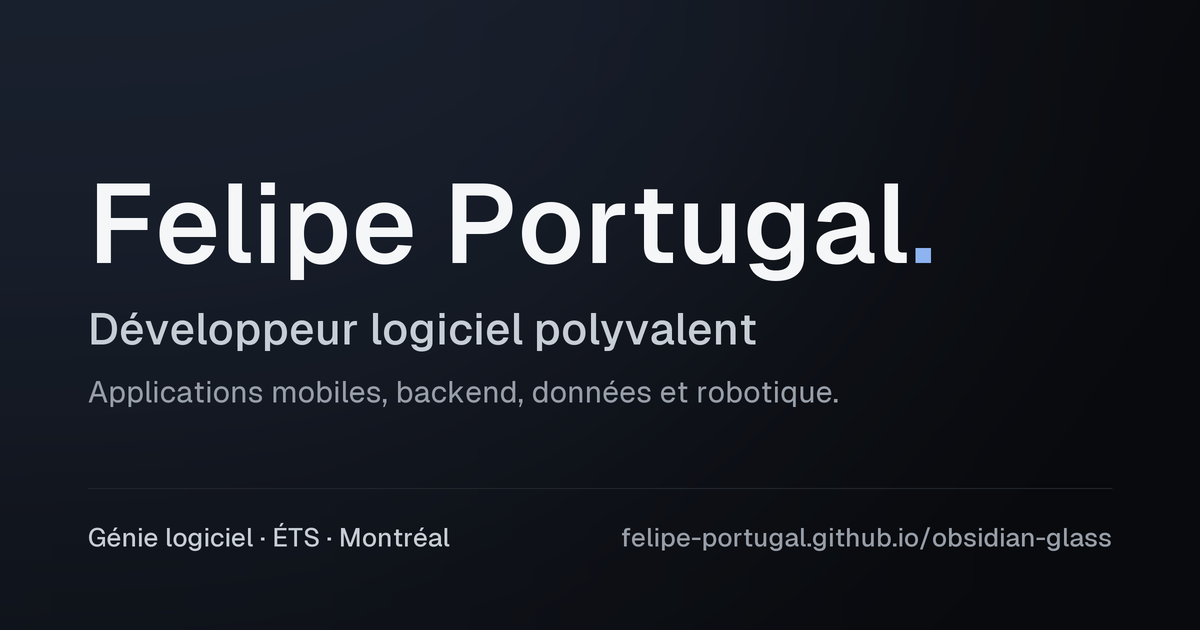
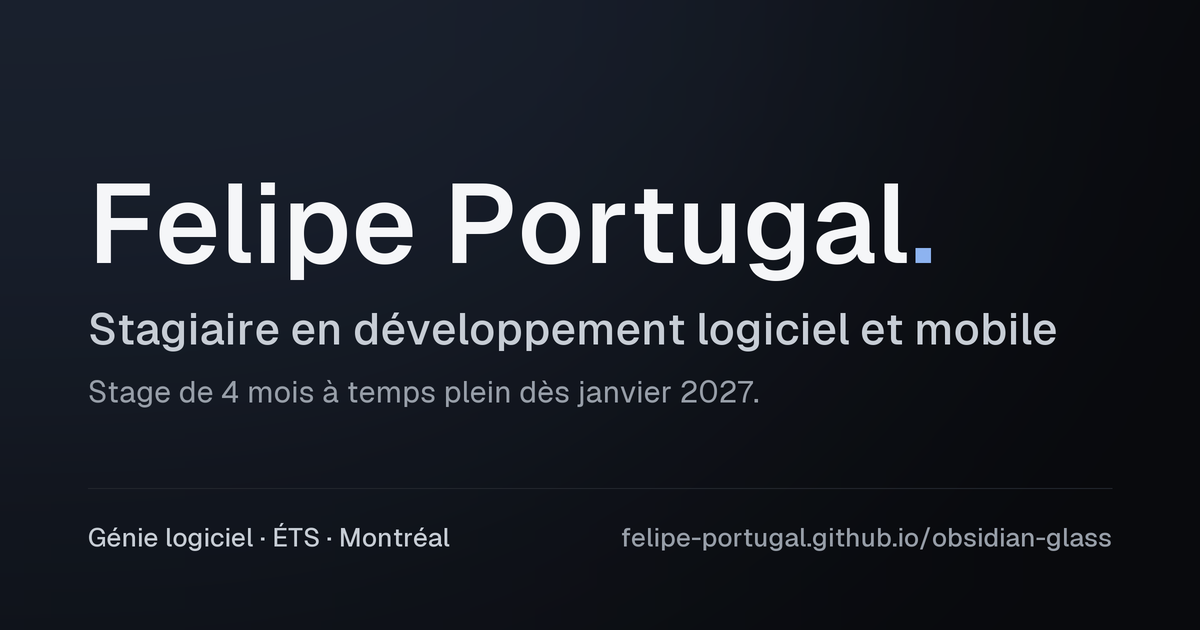
Positionnement en stage logiciel et mobile, résultats livrés, contact simplifié
- Titre, accroche et disponibilité (temps plein dès janvier 2027), image de partage régénérée
- Études de cas : « Ce qui a été livré », sans gain non mesuré
- Contact : un seul bouton « Me contacter », logos LinkedIn et GitHub, icônes seules sur écran étroit
- Synchronisation avec l'adresse via useEffectEvent (avertissement du lint corrigé)

Changed region(s): [[0.0617, 0.4825, 0.8942, 0.573], [0.0617, 0.6032, 0.7092, 0.6635]]

diff --git a/src/i18n/ui.ts b/src/i18n/ui.ts
@@ -5,7 +5,7 @@ import type { Lang } from '../data/types'
 
 const fr = {
   meta: {
-    title: 'Felipe Portugal · Développeur logiciel polyvalent',
+    title: 'Felipe Portugal · Stagiaire en développement logiciel et mobile',
     description:
       'Portfolio de Felipe Portugal, étudiant en génie logiciel à l’ÉTS, à Montréal\u00a0: applications mobiles, backend, données et robotique.',
     locale: 'fr_CA',
@@ -23,19 +23,19 @@ const fr = {
     themes: { auto: 'Thème automatique (système)', light: 'Thème clair', dark: 'Thème sombre' },
   },
   hero: {
-    role: 'Développeur logiciel polyvalent',
-    lede: 'Étudiant en génie logiciel à l’ÉTS et diplômé du DEC en techniques de l’informatique, je suis passionné par les systèmes embarqués et l’implémentation de l’IA. À l’ITMI, j’ai contribué à des applications mobiles, à des services backend et à des outils pour le robot Spot.',
+    role: 'Stagiaire en développement logiciel et mobile',
+    lede: 'Étudiant en génie logiciel à l’ÉTS et diplômé du DEC en techniques de l’informatique. À l’ITMI, j’ai contribué à une application mobile React Native et à son API PHP, puis, pour le robot Spot, à la détection de manomètres avec PyTorch et à leur lecture par OCR. Je veux aller plus loin en systèmes embarqués et en IA appliquée.',
     factsLabel: 'En bref',
     study: 'Étudiant en génie logiciel, ÉTS',
     languages: 'Français, anglais, espagnol',
-    status: 'Recherche un stage de 4\u00a0mois à l’hiver 2027 · ouvert à 8\u00a0mois',
+    status: 'Stage de 4\u00a0mois à temps plein dès janvier 2027 · ouvert à 8\u00a0mois',
     contact: 'Me contacter',
   },
   projects: {
     title: 'Projets',
     hint: 'Chaque étude de cas détaille ma contribution, l’architecture et les limites.',
     contribution: 'Ma contribution',
-    result: 'Ce que le projet a changé',
+    result: 'Ce qui a été livré',
     open: 'Ouvrir l’étude de cas',
     techLabel: 'Technologies principales',
   },
@@ -128,7 +128,7 @@ const fr = {
   contactTile: {
     title: 'Contact',
     lead: 'Pour un stage ou une question, écrivez-moi directement.',
-    write: 'Écrire un message',
+    write: 'Me contacter',
     cv: 'Demander le CV',
     cvOpen: 'Ouvrir le CV',
   },
@@ -191,7 +191,7 @@ export type UiStrings = typeof fr
 
 const en: UiStrings = {
   meta: {
-    title: 'Felipe Portugal · Versatile software developer',
+    title: 'Felipe Portugal · Software and mobile development intern',
     description:
       'Portfolio of Felipe Portugal, software engineering student at ÉTS in Montréal: mobile apps, backend, data and robotics.',
     locale: 'en_CA',
@@ -209,19 +209,19 @@ const en: UiStrings = {
     themes: { auto: 'Automatic theme (system)', light: 'Light theme', dark: 'Dark theme' },
   },
   hero: {
-    role: 'Versatile software developer',
-    lede: 'A software engineering student at ÉTS with a college diploma (DEC) in computer science, I am passionate about embedded systems and implementing AI. At ITMI, I contributed to mobile apps, backend services and tools for the Spot robot.',
+    role: 'Software and mobile development intern',
+    lede: 'Software engineering student at ÉTS with a college diploma (DEC) in computer science. At ITMI, I contributed to a React Native mobile app and its PHP API, then, for the Spot robot, to gauge detection with PyTorch and reading their values with OCR. I want to go further in embedded systems and applied AI.',
     factsLabel: 'At a glance',
     study: 'Software engineering student, ÉTS',
     languages: 'French, English, Spanish',
-    status: 'Looking for a 4-month internship in winter 2027 · open to 8 months',
+    status: 'Full-time 4-month internship from January 2027 · open to 8 months',
     contact: 'Contact me',
   },
   projects: {
     title: 'Projects',
     hint: 'Each case study details my contribution, the architecture and the limits.',
     contribution: 'My contribution',
-    result: 'What this project changed',
+    result: 'What was delivered',
     open: 'Open the case study',
     techLabel: 'Main technologies',
   },
@@ -314,7 +314,7 @@ const en: UiStrings = {
   contactTile: {
     title: 'Contact',
     lead: 'For an internship or a question, write to me directly.',
-    write: 'Write a message',
+    write: 'Contact me',
     cv: 'Request my résumé',
     cvOpen: 'Open my résumé',
   },

diff --git a/src/test/app.test.tsx b/src/test/app.test.tsx
@@ -2,6 +2,7 @@ import { fireEvent, render, screen, waitFor, within } from '@testing-library/rea
 import { StrictMode } from 'react'
 import { describe, expect, it } from 'vitest'
 import { App } from '../App'
+import { profile } from '../data/profile'
 import type { Lang } from '../data/types'
 import { LanguageProvider } from '../i18n/LanguageProvider'
 import { ThemeProvider } from '../theme/ThemeProvider'
@@ -25,7 +26,7 @@ describe('page', () => {
   it('présente le profil et les sections attendues, dans l’ordre', () => {
     renderApp('fr')
     expect(screen.getByRole('heading', { level: 1 }).textContent).toBe('Felipe Portugal.')
-    expect(screen.getByText('Développeur logiciel polyvalent')).toBeTruthy()
+    expect(screen.getByText('Stagiaire en développement logiciel et mobile')).toBeTruthy()
     expect(headings(2)).toEqual(['Projets', 'Parcours', 'Compétences', 'À propos de moi', 'Contact'])
     expect(document.documentElement.lang).toBe('fr')
   })
@@ -37,7 +38,7 @@ describe('page', () => {
     expect(headings(2)).toEqual(['Projects', 'Background', 'Skills', 'About me', 'Contact'])
     expect(document.documentElement.lang).toBe('en')
     expect(window.localStorage.getItem('og-lang')).toBe('en')
-    expect(document.title).toMatch(/Versatile software developer/)
+    expect(document.title).toMatch(/Software and mobile development intern/)
   })
 
   it('mémorise un thème manuel et oublie le mode automatique', () => {
@@ -76,6 +77,12 @@ describe('page', () => {
       expect(link.getAttribute('target')).toBe('_blank')
       expect(link.getAttribute('type')).toBe('application/pdf')
     }
+  })
+
+  it('nomme LinkedIn et GitHub nommés même réduits à leur icône', () => {
+    renderApp('fr')
+    expect(screen.getAllByRole('link', { name: /^LinkedIn/ }).some((link) => link.getAttribute('href') === profile.linkedin)).toBe(true)
+    expect(screen.getAllByRole('link', { name: /^GitHub/ }).some((link) => link.getAttribute('href') === profile.github)).toBe(true)
   })
 })
 
@@ -141,7 +148,7 @@ describe('fenêtres', () => {
     expect(closeButton.textContent).toBe('')
     expect(closeButton.querySelector('svg')).toBeTruthy()
     expect(within(dialog).getByRole('heading', { name: 'Défi technique' })).toBeTruthy()
-    expect(within(dialog).getByRole('heading', { name: 'Ce que le projet a changé' })).toBeTruthy()
+    expect(within(dialog).getByRole('heading', { name: 'Ce qui a été livré' })).toBeTruthy()
     expect(document.activeElement).toBe(within(dialog).getByRole('heading', { level: 2, name: 'Gestion des stationnements' }))
     // Les onglets : l'architecture n'est rendue qu'une fois son onglet choisi.
     expect(within(dialog).queryByRole('figure')).toBeNull()
@@ -233,7 +240,7 @@ describe('fenêtres', () => {
 
   it('ouvre immédiatement le formulaire depuis la section Contact et prépare un courriel', () => {
     renderApp('fr')
-    fireEvent.click(screen.getByRole('button', { name: 'Écrire un message' }))
+    fireEvent.click(within(document.getElementById('contact')!).getByRole('button', { name: 'Me contacter' }))
     const dialog = screen.getByRole('dialog', { name: 'Me contacter' })
     expect(within(dialog).getByText(/Rédigez votre message ici/)).toBeTruthy()
     const emailLink = within(dialog).getByRole('link', { name: 'Ouvrir mon application courriel' })

diff --git a/src/sections/Contact.tsx b/src/sections/Contact.tsx
@@ -1,5 +1,6 @@
 import { ArrowUpRight, FileText, Mail, MapPin } from 'lucide-react'
 import { CopyButton } from '../components/ContactLinks'
+import { BrandSvg } from '../components/TechGlyph'
 import { profile } from '../data/profile'
 import { useLanguage } from '../i18n/LanguageProvider'
 import { mailto } from '../lib/mailto'
@@ -8,7 +9,10 @@ interface Props {
   onOpen: (source: HTMLElement, subject?: string) => void
 }
 
-/** Bande de contact : l'invitation, puis l'adresse (copiable), le formulaire, LinkedIn, GitHub et le CV. */
+/**
+ * Bande de contact : l'invitation, puis l'adresse (copiable), le formulaire, LinkedIn, GitHub et le CV.
+ * Sur écran étroit, les actions autres que le formulaire ne gardent que leur icône ; leur libellé reste lu par les lecteurs d'écran.
+ */
 export function Contact({ onOpen }: Props) {
   const { pick, t } = useLanguage()
   const resume = profile.resume ? `${import.meta.env.BASE_URL}${pick(profile.resume)}` : null
@@ -35,24 +39,26 @@ export function Contact({ onOpen }: Props) {
             <span>{t.contactTile.write}</span>
           </button>
           <a className="button button--quiet" href={profile.linkedin} target="_blank" rel="noopener noreferrer">
-            <span>LinkedIn</span>
+            <BrandSvg icon="linkedin" />
+            <span className="button__label">LinkedIn</span>
             <span className="sr-only"> {t.a11y.newTab}</span>
-            <ArrowUpRight aria-hidden="true" size={16} strokeWidth={1.75} />
+            <ArrowUpRight className="button__out" aria-hidden="true" size={16} strokeWidth={1.75} />
           </a>
           <a className="button button--quiet" href={profile.github} target="_blank" rel="noopener noreferrer">
-            <span>GitHub</span>
+            <BrandSvg icon="github" />
+            <span className="button__label">GitHub</span>
             <span className="sr-only"> {t.a11y.newTab}</span>
-            <ArrowUpRight aria-hidden="true" size={16} strokeWidth={1.75} />
+            <ArrowUpRight className="button__out" aria-hidden="true" size={16} strokeWidth={1.75} />
           </a>
           {resume ? (
             <a className="button button--quiet" href={resume} target="_blank" rel="noopener" type="application/pdf" hrefLang="fr" aria-label={`${t.contactTile.cvOpen} ${t.a11y.cvPdf} ${t.a11y.newTab}`}>
               <FileText aria-hidden="true" size={16} strokeWidth={1.75} />
-              <span>{t.contactTile.cvOpen}</span>
+              <span className="button__label">{t.contactTile.cvOpen}</span>
             </a>
           ) : (
             <button type="button" className="button button--quiet" aria-haspopup="dialog" onClick={(event) => onOpen(event.currentTarget, t.contact.cvSubject)}>
               <FileText aria-hidden="true" size={16} strokeWidth={1.75} />
-              <span>{t.contactTile.cv}</span>
+              <span className="button__label">{t.contactTile.cv}</span>
             </button>
           )}
         </div>

diff --git a/src/data/projects.ts b/src/data/projects.ts
@@ -31,8 +31,8 @@ export const projects: readonly Project[] = [
       en: 'Mobile app, admin pages, some REST API endpoints and backend components, Stripe payments.',
     },
     result: {
-      fr: 'Les demandes de vignettes sont plus rapides à traiter. L’administration et les surveillants disposent d’un historique, des factures et du lien entre chaque vignette et le bon véhicule.',
-      en: 'Permit requests are faster to process. Administrators and parking staff can access the history, invoices and the vehicle linked to each permit.',
+      fr: 'Les demandes de vignettes se traitent dans l’interface web d’administration. L’administration et les surveillants y consultent l’historique, les factures et le véhicule lié à chaque vignette.',
+      en: 'Permit requests are processed in the web admin interface. Administrators and parking staff can view the history, invoices and the vehicle linked to each permit there.',
     },
     cardTech: ['reactnative', 'expo', 'typescript', 'php', 'postgresql'],
     detail: {
@@ -198,8 +198,8 @@ export const projects: readonly Project[] = [
       en: 'Python and Spot SDK: missions, gauge detection and reading, data export, sensors in InfluxDB and Grafana.',
     },
     result: {
-      fr: 'Le personnel accède rapidement aux données des missions, traitées sur le serveur et déposées dans un répertoire en fichiers Excel et CSV.',
-      en: 'Staff can quickly access mission data processed on the server and placed in a directory as Excel and CSV files.',
+      fr: 'Les photos de mission sont traitées sur le serveur Linux, et les valeurs lues sont déposées en fichiers Excel et CSV dans un répertoire accessible au personnel.',
+      en: 'Mission photos are processed on the Linux server, and the values read are saved as Excel and CSV files in a directory accessible to staff.',
     },
     cardTech: ['python', 'spotsdk', 'pytorch', 'opencv', 'rust'],
     detail: {
@@ -381,8 +381,8 @@ export const projects: readonly Project[] = [
       en: 'System design, sensors (motion, microphone, camera), embedded programming and the Android app.',
     },
     result: {
-      fr: 'Le projet a réuni une application Android et des composants embarqués pour répondre au besoin des personnes en déplacement de surveiller leur logement temporaire en continu.',
-      en: 'The project brought together an Android app and embedded components to address travellers’ need to monitor their temporary lodging continuously.',
+      fr: 'Un système de surveillance livré et validé avec le client : capteurs de mouvement, microphone et caméra lus par le Raspberry Pi et l’Arduino, avec une application Android.',
+      en: 'A monitoring system delivered and signed off with the client: motion sensors, a microphone and a camera read by the Raspberry Pi and the Arduino, with an Android app.',
     },
     cardTech: ['android', 'java', 'raspberrypi', 'python', 'arduino'],
     detail: {

diff --git a/src/App.tsx b/src/App.tsx
@@ -1,4 +1,4 @@
-import { lazy, Suspense, useEffect, useRef, useState } from 'react'
+import { lazy, Suspense, useEffect, useEffectEvent, useRef, useState } from 'react'
 import type { AboutWindow } from './components/AboutWindow'
 import { ContactWindow } from './components/ContactWindow'
 import { Dock } from './components/Dock'
@@ -121,15 +121,23 @@ export function App() {
   useEffect(() => onFirstNotify(() => setNotifications(true)), [])
 
   // Chaque étude de cas a son adresse (#projet-spot…) : lien direct, Retour et Avance du navigateur.
+  // Événements d'effet : ils lisent toujours la dernière version d'openWindow sans réabonner l'écouteur.
+  const openFromHash = useEffectEvent((id: Project['id']) => {
+    openWindow({ kind: 'project', id, card: document.querySelector<HTMLElement>(`.project[data-project="${id}"]`) })
+  })
+  const syncWithHash = useEffectEvent(() => {
+    const id = projectFromHash()
+    if (id) openFromHash(id)
+    else setActive((current) => (current?.kind === 'project' ? null : current))
+  })
   useEffect(() => {
-    const sync = () => {
-      const id = projectFromHash()
-      if (id) openWindow({ kind: 'project', id, card: document.querySelector<HTMLElement>(`.project[data-project="${id}"]`) })
-      else setActive((current) => (current?.kind === 'project' ? null : current))
-    }
-    sync()
-    window.addEventListener('popstate', sync)
-    return () => window.removeEventListener('popstate', sync)
+    // Arrivée directe sur l'adresse d'une étude de cas : la fenêtre suit l'adresse, un système externe.
+    const id = projectFromHash()
+    // oxlint-disable-next-line react/set-state-in-effect
+    if (id) openFromHash(id)
+    const onPopState = () => syncWithHash()
+    window.addEventListener('popstate', onPopState)
+    return () => window.removeEventListener('popstate', onPopState)
   }, [])
 
   useEffect(() => {

diff --git a/index.html b/index.html
@@ -3,7 +3,7 @@
   <head>
     <meta charset="UTF-8" />
     <meta name="viewport" content="width=device-width, initial-scale=1, viewport-fit=cover" />
-    <title>Felipe Portugal · Développeur logiciel polyvalent</title>
+    <title>Felipe Portugal · Stagiaire en développement logiciel et mobile</title>
     <meta
       name="description"
       content="Portfolio de Felipe Portugal, étudiant en génie logiciel à l’ÉTS, à Montréal : applications mobiles, backend, données et robotique."
@@ -14,7 +14,7 @@
     <meta name="theme-color" content="#0b0d10" />
     <meta property="og:type" content="profile" />
     <meta property="og:url" content="https://felipe-portugal.github.io/obsidian-glass/" />
-    <meta property="og:title" content="Felipe Portugal · Développeur logiciel polyvalent" />
+    <meta property="og:title" content="Felipe Portugal · Stagiaire en développement logiciel et mobile" />
     <meta
       property="og:description"
       content="Portfolio de Felipe Portugal, étudiant en génie logiciel à l’ÉTS, à Montréal : applications mobiles, backend, données et robotique."
@@ -29,7 +29,7 @@
     <meta property="og:image:height" content="630" />
     <meta
       property="og:image:alt"
-      content="Felipe Portugal, développeur logiciel polyvalent : applications mobiles, backend, données et robotique."
+      content="Felipe Portugal, stagiaire en développement logiciel et mobile : stage de 4 mois à temps plein dès janvier 2027."
     />
     <meta name="twitter:card" content="summary_large_image" />
     <link rel="icon" type="image/svg+xml" href="/favicon.svg" />

diff --git a/src/styles/layout.css b/src/styles/layout.css
@@ -711,6 +711,33 @@ main:focus {
   gap: var(--space-2);
 }
 
+.contact__actions .glyph {
+  width: 16px;
+  height: 16px;
+}
+
+/* Écran étroit : le formulaire garde son libellé, les autres actions ne montrent que leur icône. */
+@media (max-width: 860px) {
+  .contact__actions .button--quiet {
+    position: relative;
+    width: 44px;
+    padding: 0;
+  }
+
+  .contact__actions .button__label {
+    position: absolute;
+    width: 1px;
+    height: 1px;
+    overflow: hidden;
+    clip-path: inset(50%);
+    white-space: nowrap;
+  }
+
+  .contact__actions .button__out {
+    display: none;
+  }
+}
+
 /* Boutons */
 
 .button {

diff --git a/README.md b/README.md
@@ -1,6 +1,6 @@
 # Obsidian Glass
 
-ePortfolio de Felipe Portugal, développeur logiciel polyvalent : une seule page, bilingue (français et anglais), avec mode clair, mode sombre et mode automatique.
+ePortfolio de Felipe Portugal, étudiant en génie logiciel à l'ÉTS qui cherche un stage en développement logiciel et mobile : une seule page, bilingue (français et anglais), avec mode clair, mode sombre et mode automatique.
 
 React 19, Vite et TypeScript strict. Les comportements d'interface reposent sur des primitives accessibles et sans style ([Radix UI](https://www.radix-ui.com/primitives) pour les fenêtres, onglets et infobulles, [Vaul](https://vaul.emilkowal.ski) pour les feuilles du bas sur mobile, [Sonner](https://sonner.emilkowal.ski) pour les confirmations) ; tout le style reste en CSS maison, sur les jetons du projet. Aucun suivi, aucun cookie.
 
